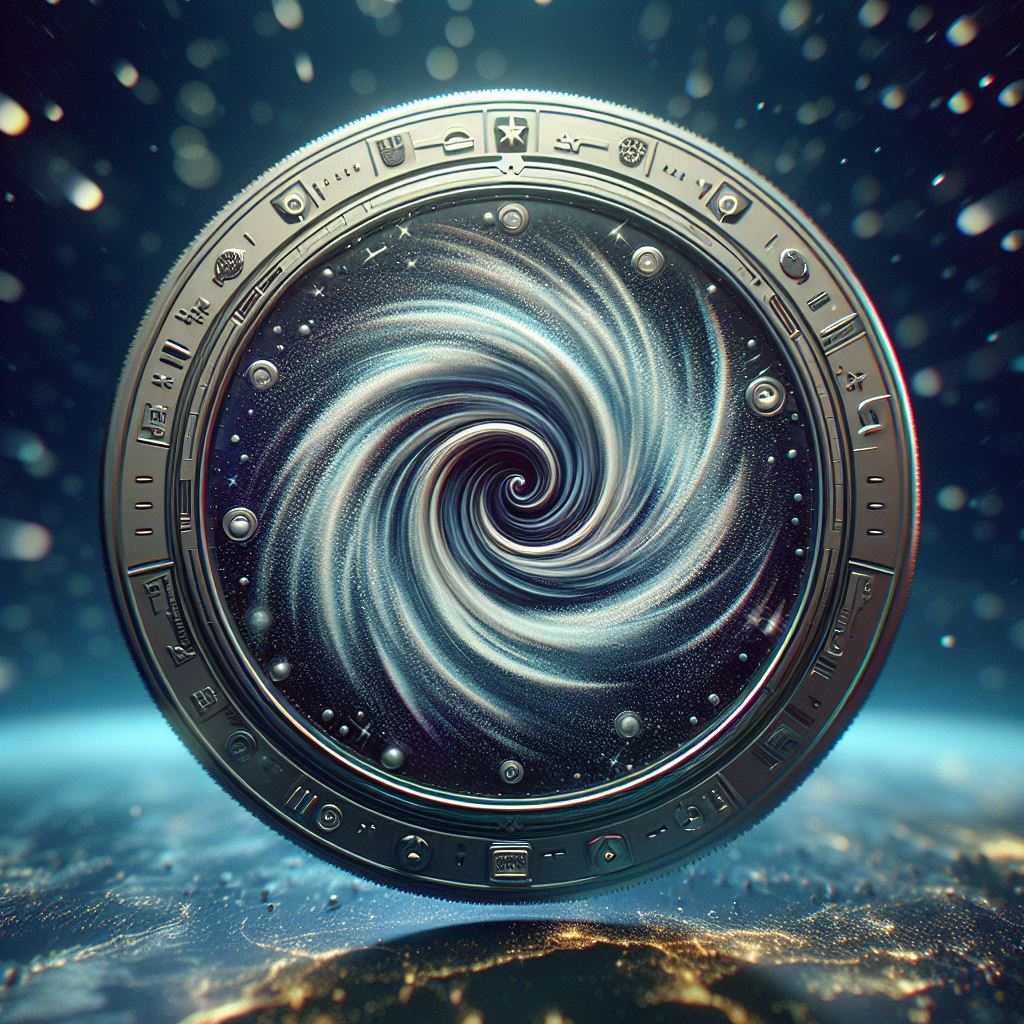
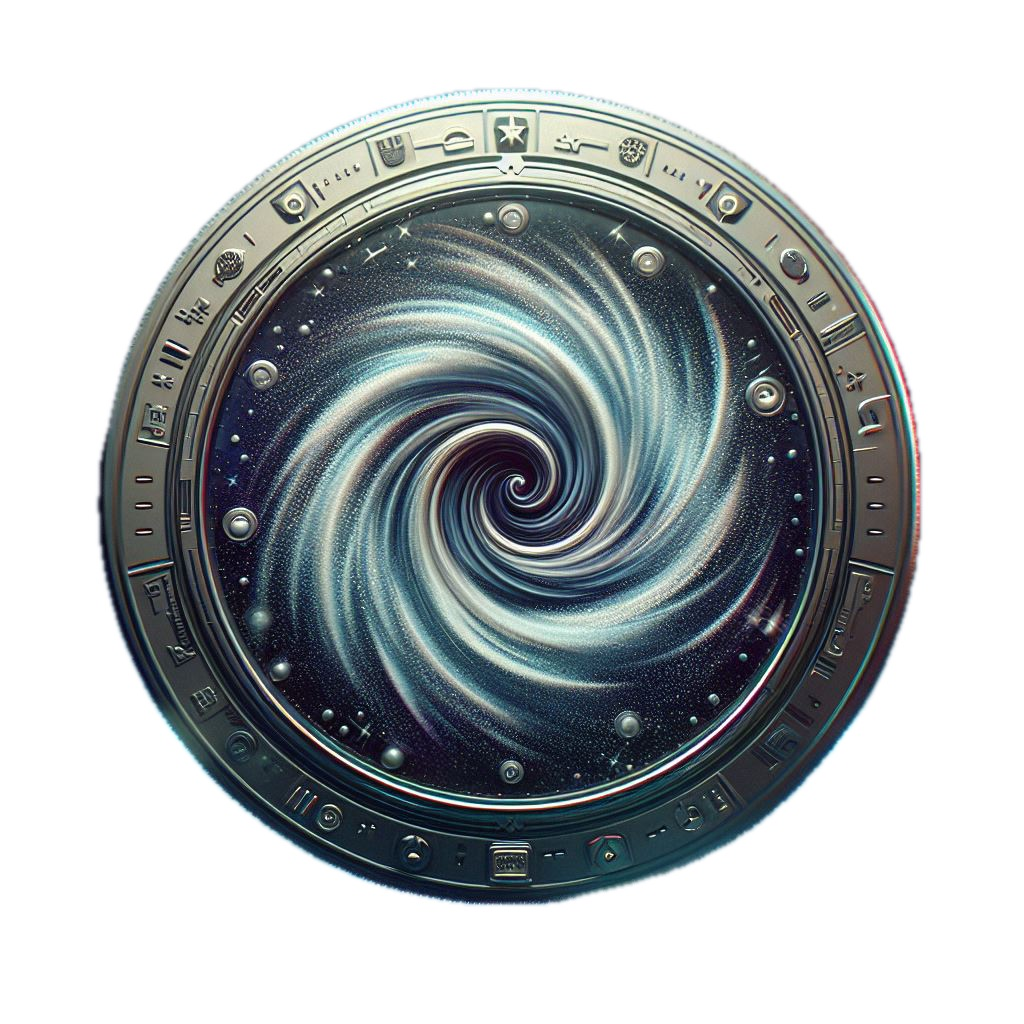
Altered token + Alter mobile view

diff --git a/src/components/Hero.jsx b/src/components/Hero.jsx
@@ -1,7 +1,5 @@
 import { gradient, token } from "../assets";
-import GradientButton from "./Button";
 import Section from "./Section";
-import { Gradient } from "./design/Hero";
 import { ScrollParallax } from "react-just-parallax";
 import { useRef } from "react";
 import CompanyLogos from "./CompanyLogos";
@@ -13,7 +11,7 @@ const Hero = () => {
   const parallaxRef = useRef(null);
 
   return (
-    <Section className="pt-[12rem] -mt-[6.25rem]" customPaddings id="hero">
+    <Section className="pt-[8rem] -mt-[6.25rem]" customPaddings id="hero">
       <div className="container relative" ref={parallaxRef}>
         <div className="relative z-1 max-w-[62rem] mx-auto text-center mb-[3.875rem] md:mb-20 lg:mb-[6.25rem]">
           <h1 className="h1 mb-6">
@@ -37,53 +35,43 @@ const Hero = () => {
             <h1 className="h6 text-center">EXPLORE</h1>
           </Custom_B>
         </div>
-        <div className="relative max-w-[23rem] mx-auto md:max-w-5xl xl:mb-34">
-          <div className="relative z-1 p-0.5 rounded-2xl bg-conic-gradient">
-            <div className="relative bg-n-8 rounded-[1rem]">
-              <div className="h-[1.4rem] bg-n-10 rounded-t-[0.9rem]" />
-
-              <div className="aspect-[33/40] rounded-b-[0.9rem] overflow-hidden md:aspect-[688/490] lg:aspect-[1024/490]">
-                <img
-                  src={token}
-                  className="w-full scale-[1.7] translate-y-[8%] md:scale-[1] md:-translate-y-[10%] lg:-translate-y-[23%]   "
-                  width={1024}
-                  height={490}
-                  alt="token"
-                />
-                <ScrollParallax isAbsolutelyPositioned>
-                  <CapNotification
-                    className="hidden absolute -left-[7.5rem] bottom-[16rem] w-[18rem] xl:flex"
-                    title="Staking Rewards "
-                    subtitle={"Earn up to 20% APY"}
-                  />
-                </ScrollParallax>
-
-                <ScrollParallax isAbsolutelyPositioned>
-                  <CapNotification
-                    className="hidden absolute -right-[7.5rem] bottom-[26rem] w-[18rem] xl:flex"
-                    title="Supply Cap "
-                    subtitle={"100,000,000 ORB"}
-                  />
-                </ScrollParallax>
-
-                <ScrollParallax isAbsolutelyPositioned>
-                  <CapNotification
-                    className="hidden absolute -right-[7.5rem] bottom-[6rem] w-[18rem] xl:flex"
-                    title="Community Governance"
-                  />
-                </ScrollParallax>
-              </div>
-            </div>
-
-            <Gradient />
+        <div className="flex justify-center items-center h-[200px] md:h-auto">
+          <div className="aspect-[33/37] overflow-hidden md:aspect-[188/210]">
+            <img
+              src={token}
+              className="w-full h-auto md:w-auto md:h-auto max-w-[650px] mx-auto" // Set maximum width and center the image
+              alt="token"
+            />
           </div>
-          <div className="absolute -top-[54%] left-1/2 w-[234%] -translate-x-1/2 md:-top-[46%] md:w-[208%] lg:-top-[104%] opacity-25">
-            <img src={gradient} className="w-full" alt="hero" />
-          </div>
+
+          <ScrollParallax isAbsolutelyPositioned>
+            <CapNotification
+              className="hidden absolute -left-[.2rem] bottom-[36rem] w-[25rem] xl:flex"
+              title="Staking Rewards "
+              subtitle={"Earn up to 20% APY"}
+            />
+          </ScrollParallax>
+          <ScrollParallax isAbsolutelyPositioned>
+            <CapNotification
+              className="hidden absolute -right-[.0rem] bottom-[36rem] w-[20rem] xl:flex"
+              title="Supply Cap "
+              subtitle={"100,000,000 ORB"}
+            />
+          </ScrollParallax>
+          <ScrollParallax isAbsolutelyPositioned>
+            <CapNotification
+              className="hidden absolute -left-[-29rem] bottom-[4rem] w-[30rem] xl:flex"
+              title="Community Governance"
+              subtitle={"Vote on proposals"}
+            />
+          </ScrollParallax>
         </div>
-
-        <CompanyLogos className="hidden relative z-10 mt-14 lg:block" />
+        <div className="absolute -top-[54%] left-1/2 w-[234%] -translate-x-1/2 md:-top-[46%] md:w-[208%] lg:-top-[104%] opacity-10">
+          <img src={gradient} className="w-full" alt="hero" />
+        </div>
       </div>
+
+      <CompanyLogos className="hidden relative z-10 mt-14 lg:block" />
     </Section>
   );
 };

diff --git a/src/components/Header.jsx b/src/components/Header.jsx
@@ -54,18 +54,21 @@ const Header = () => {
 
   return (
     <div
-      className={`fixed top-0 left-0 w-full z-50  border-b border-n-6 lg:bg-n-8/90 lg:backdrop-blur-sm ${
-        openNavigation ? "bg-n-8" : "bg-n-8/90 backdrop-blur-sm"
+      className={`fixed top-0 left-0 w-full z-50 border-b border-n-6 lg:bg-n-8/70 lg:backdrop-blur-sm${
+        openNavigation ? " bg-n-8/70" : " bg-transparent/70"
       }`}
     >
-      <div className="flex items-center px-5 lg:px-7.5 xl:px-10 max-lg:py-4">
-        <a className="block w-[12rem] xl:mr-8 lg:mr-0" href="#hero">
+      <div className="flex items-center px-5 lg:px-7.5 xl:px-10 max-lg:py-4 bg-transparent">
+        <a
+          className="block w-[12rem] xl:mr-8 lg:mr-0 bg-transparent"
+          href="#hero"
+        >
           <img src={wave} width={94} height={40} alt="Wave logo" />
         </a>
 
         <nav
           className={`${
-            openNavigation ? "flex justify-center items-center" : "hidden"
+            openNavigation ? "flex justify-center items-center " : "hidden"
           } fixed top-[5rem] left-0 right-0 bottom-0 bg-n-8 lg:static lg:flex lg:mx-auto lg:bg-transparent`}
         >
           <div className="relative z-3 flex flex-col items-center justify-center m-auto lg:flex-row">

diff --git a/src/components/Capnotification.jsx b/src/components/Capnotification.jsx
@@ -1,18 +1,26 @@
+import PropTypes from "prop-types";
+
 const CapNotification = ({ className, title, subtitle }) => {
   return (
     <div
       className={`${
         className || ""
-      } flex items-center p-4 pr-6 bg-n-9/40 backdrop-blur border border-n-1/10 rounded-2xl gap-5`}
+      } flex items-center justify-center text-center p-4 pr-6 bg-n-9/40 backdrop-blur border border-n-1/10 rounded-2xl gap-5`}
     >
       <h6 className="mb-1 font-semibold text-base">{title}</h6>
 
-      <div className="flex items-center justify-between">
-        <ul className="flex -m-0.5"></ul>
+      <div className="flex items-center">
+        <ul className="flex "></ul>
         <div className="body-3 text-n-2">{subtitle}</div>
       </div>
     </div>
   );
+};
+
+CapNotification.propTypes = {
+  className: PropTypes.string,
+  title: PropTypes.string.isRequired,
+  subtitle: PropTypes.string.isRequired,
 };
 
 export default CapNotification;

diff --git a/src/components/Services.jsx b/src/components/Services.jsx
@@ -1,6 +1,6 @@
 import Section from "./Section";
 import Heading from "./Heading";
-import { service1, service2, service3, check } from "../assets";
+import { service1, service2, service3, mdiorbit } from "../assets";
 import { brainwaveServices } from "../constants";
 import { Gradient } from "./design/Services";
 
@@ -35,7 +35,12 @@ const Services = () => {
                     key={index}
                     className="flex items-start px-1 py-4 border-t border-n-6"
                   >
-                    <img width={24} height={24} src={check} alt="Checkmark" />
+                    <img
+                      width={24}
+                      height={24}
+                      src={mdiorbit}
+                      alt="Checkmark"
+                    />
                     <p className="ml-4">{item}</p>
                   </li>
                 ))}

diff --git a/src/assets/index.js b/src/assets/index.js
@@ -7,6 +7,7 @@ import gradient from "./gradient.png";
 import grid from "./grid.png";
 import check2 from "./check-02.svg";
 import loading1 from "./loading-01.svg";
+import mdiorbit from "./mdi-orbit.svg";
 
 import eth from "./eth.svg";
 import uni from "./uni.svg";
@@ -20,7 +21,7 @@ import loading from "./loading.png";
 import background from "./background.jpg";
 
 import curve from "./hero/curve.png";
-import token from "./hero/token.jpg";
+import token from "./hero/token.png";
 import heroBackground from "./hero/hero-background.svg";
 
 import curve1 from "./collaboration/curve-1.svg";
@@ -70,6 +71,7 @@ import twitter from "./socials/twitter.svg";
 
 export {
   wave,
+  mdiorbit,
   check,
   check2,
   loading1,

diff --git a/src/components/Collaboration.jsx b/src/components/Collaboration.jsx
@@ -1,4 +1,4 @@
-import { check, wave } from "../assets";
+import { mdiorbit, wave } from "../assets";
 import { collabApps, collabContent } from "../constants";
 import Button from "./Button";
 import Section from "./Section";
@@ -14,7 +14,7 @@ const Collaboration = () => {
             {collabContent.map((item) => (
               <li className="mb-3 py-3" key={item.id}>
                 <div className="flex items-center">
-                  <img src={check} width={24} height={24} alt="check" />
+                  <img src={mdiorbit} width={24} height={24} alt="check" />
                   <h6 className="body-2 ml-5">{item.title}</h6>
                 </div>
                 {item.text && (

diff --git a/src/components/Heading.jsx b/src/components/Heading.jsx
@@ -5,7 +5,7 @@ import PropTypes from "prop-types";
 const Heading = ({ className, title, text, tag }) => {
   return (
     <div
-      className={`${className} max-w-[50rem] mx-auto mb-12 lg:mb-20 md:text-center`}
+      className={`${className} max-w-full sm:max-w-screen-sm md:max-w-screen-md lg:max-w-screen-lg xl:max-w-screen-xl 2xl:max-w-screen-2xl mb-14 sm:mx-6 lg:mx-auto md:text-center`}
     >
       {tag && <TagLine className="mb-4 md:justify-center">{tag}</TagLine>}
       {title && <h2 className="h2">{title}</h2>}

diff --git a/src/components/Tagline.jsx b/src/components/Tagline.jsx
@@ -1,3 +1,4 @@
+import PropTypes from "prop-types";
 import brackets from "../assets/svg/Brackets";
 
 const TagLine = ({ className, children }) => {
@@ -8,6 +9,11 @@ const TagLine = ({ className, children }) => {
       {brackets("right")}
     </div>
   );
+};
+
+TagLine.propTypes = {
+  className: PropTypes.string,
+  children: PropTypes.node,
 };
 
 export default TagLine;
